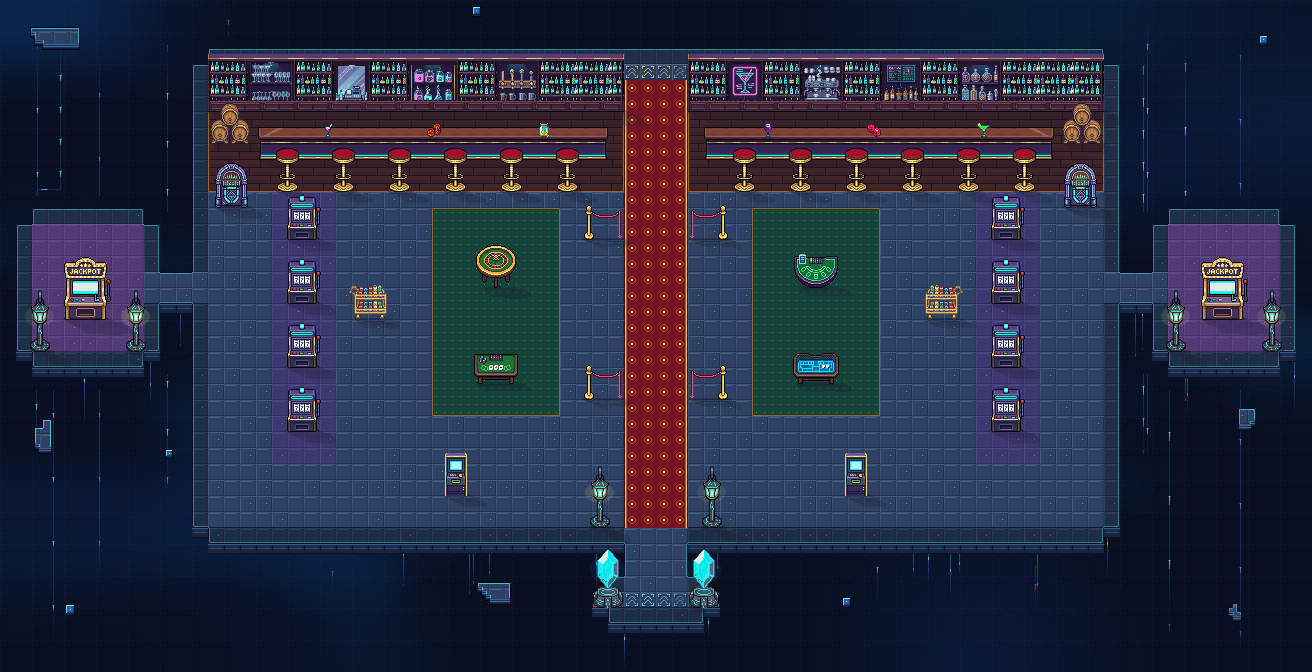
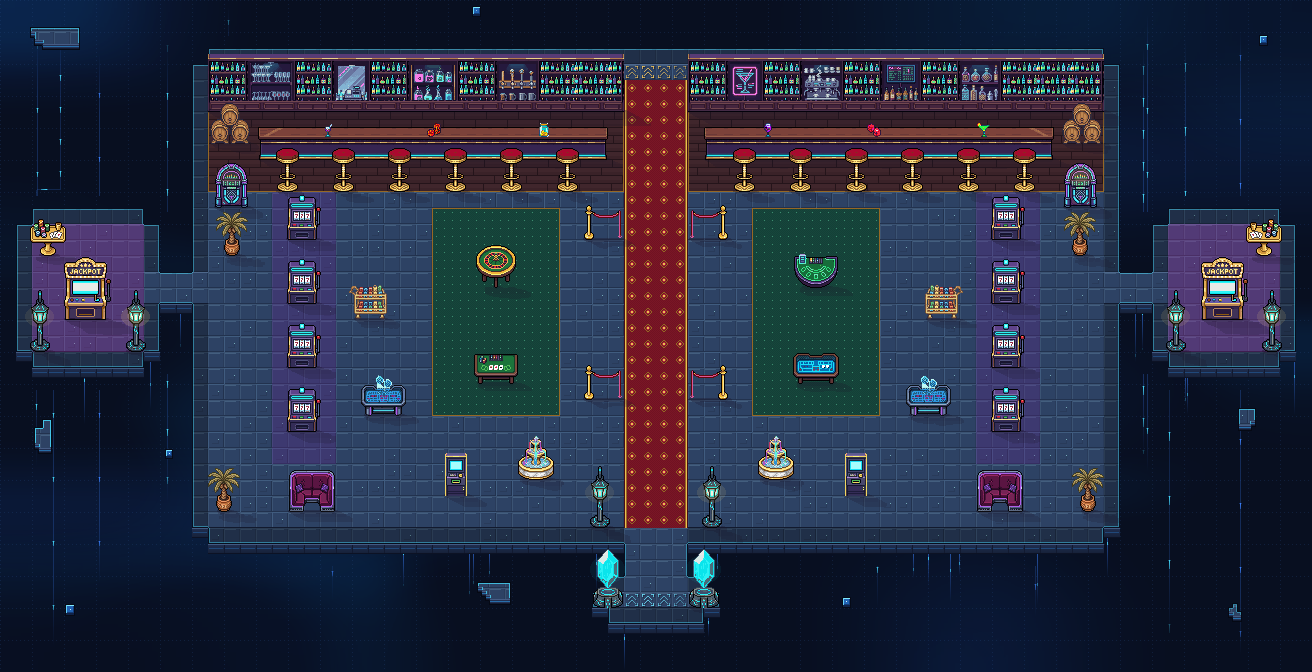
Karte 22: Palmen (K58), Lounge-Sitzecke und Holo-Wuerfeltisch (K59), Brunnen und Chip-Tischchen (K63) eingebaut (Nutzer)
Claude-Session: https://claude.ai/code/session_01SaoYHKhnro4LFcPJqjaPsq

diff --git a/tools/karte22_objekte.py b/tools/karte22_objekte.py
@@ -128,6 +128,13 @@ OBJEKTE = (
     + sum((paar(HOCKER, MITTE - x_, 11) for x_ in (288, 344, 400, 456, 512, 568)), [])
     + paar(JUKEBOX, MITTE - 232, 12, 'lampe', True)
     # Nutzer: Weinfaesser an der Bar, Chip-Wagen neben den Spieltischen
+    # Nutzer: Objekte aus den Casino-Karten - Palmen (58), Lounge-Sitzecke und Holo-Wuerfeltisch (59),
+    # Brunnen und Tischchen mit Chips/Karten (63)
+    + paar('../karte58/o48/03', MITTE - 224, 31) + paar('../karte58/o48/03', MITTE - 232, 15)
+    + paar('../karte59/o48/08', MITTE - 312, 31, None, True)
+    + paar('../karte59/o48/07', MITTE - 384, 25)
+    + paar('../karte63/o48/07', 120, 29, 'brunnen')
+    + paar('../karte63/o48/15', MITTE - 48, 15, None, True)
     + paar('mittel/00', MITTE - 230, 8) + paar('mittel/01', MITTE - 368, 19, None, True)   # Cocktailtische entfallen (stiessen an Kordeln/Hocker)
 )
 
